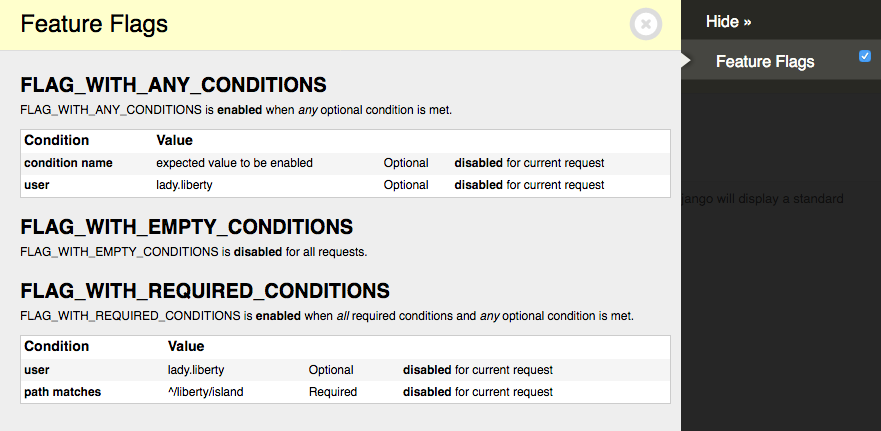
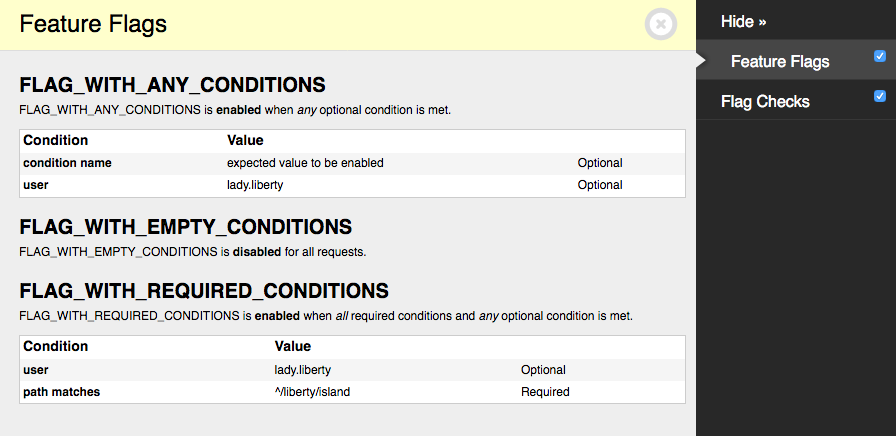
Document Flag Checks panel and add general debugging notes

diff --git a/docs/debugging.md b/docs/debugging.md
@@ -1,0 +1,58 @@
+# Debugging
+
+## Warnings
+
+<dl>
+  <dt>`flags.E001`</dt>
+  <dd>
+    <p>Django-Flags includes a <a href="https://docs.djangoproject.com/en/2.2/topics/checks/">Django system check</a> to check for flags that have non-existent conditions on start-up.</p>
+    <pre><code>?: (flags.E001) Flag FLAG_WITH_ANY_CONDITIONS has non-existent condition "condition name"
+HINT: Register "condition name" as a Django-Flags condition.</code></pre>
+  </dd>
+</dl> 
+
+## Exceptions
+
+### `RequiredForCondition`
+
+Django-Flags allows conditions to require any number of keyword arguments that must be passed when checking the condition. If a condition does not receive the necessary arguments, it may raise a `RequiredForCondition` exception, for example:
+
+```python
+Traceback (most recent call last):
+  …
+    raise RequiredForCondition("request is required for condition 'path'")
+```
+
+## Django Debug Toolbar Panels
+
+### Flag conditions
+
+Django-Flags comes with a panel for [Django Debug Toolbar](https://django-debug-toolbar.readthedocs.io/en/latest/index.html) that will list all flags, their conditions, and the state of each flag for the current request.
+
+![Feature flags Django Debug Toolbar panel](images/screenshot_flags_debug_panel.png)
+
+To enable the panel first follow the [installation and setup instructions for Django Debug Toolbar](https://django-debug-toolbar.readthedocs.io/en/latest/installation.html). Then add `flags.panels.FlagsPanel` to the `DEBUG_TOOLBAR_PANELS` setting:
+
+```python
+DEBUG_TOOLBAR_PANELS = [
+    # …
+    'flags.panels.FlagsPanel',
+    # …
+]
+```
+
+### Flag checks
+
+Django-Flags comes with a panel for [Django Debug Toolbar](https://django-debug-toolbar.readthedocs.io/en/latest/index.html) that will show which flags were checked during a request, how many times it was checked, and what the results of those checks were.
+
+![Flag Checks Django Debug Toolbar panel](images/screenshot_flag_panel.png)
+
+To enable the panel first follow the [installation and setup instructions for Django Debug Toolbar](https://django-debug-toolbar.readthedocs.io/en/latest/installation.html). Then add `flags.panels.FlagChecksPanel` to the `DEBUG_TOOLBAR_PANELS` setting:
+
+```python
+DEBUG_TOOLBAR_PANELS = [
+    # …
+    'flags.panels.FlagChecksPanel',
+    # …
+]
+```

diff --git a/docs/usage.md b/docs/usage.md
@@ -76,19 +76,3 @@ urlpatterns = [
 ```
 
 See the [API reference](/api/state) for more details and examples.
-
-## Seeing flag conditions
-
-Django-Flags comes with a panel for [Django Debug Toolbar](https://django-debug-toolbar.readthedocs.io/en/latest/index.html) that will list all flags, their conditions, and the state of each flag for the current request.
-
-![Feature flags Django Debug Toolbar panel](images/screenshot_flags_debug_panel.png)
-
-To enable the panel first follow the [installation and setup instructions for Django Debug Toolbar](https://django-debug-toolbar.readthedocs.io/en/latest/installation.html). Then add `flags.panels.FlagsPanel` to the `DEBUG_TOOLBAR_PANELS` setting:
-
-```python
-DEBUG_TOOLBAR_PANELS = [
-    # …
-    'flags.panels.FlagsPanel',
-    # …
-]
-```
